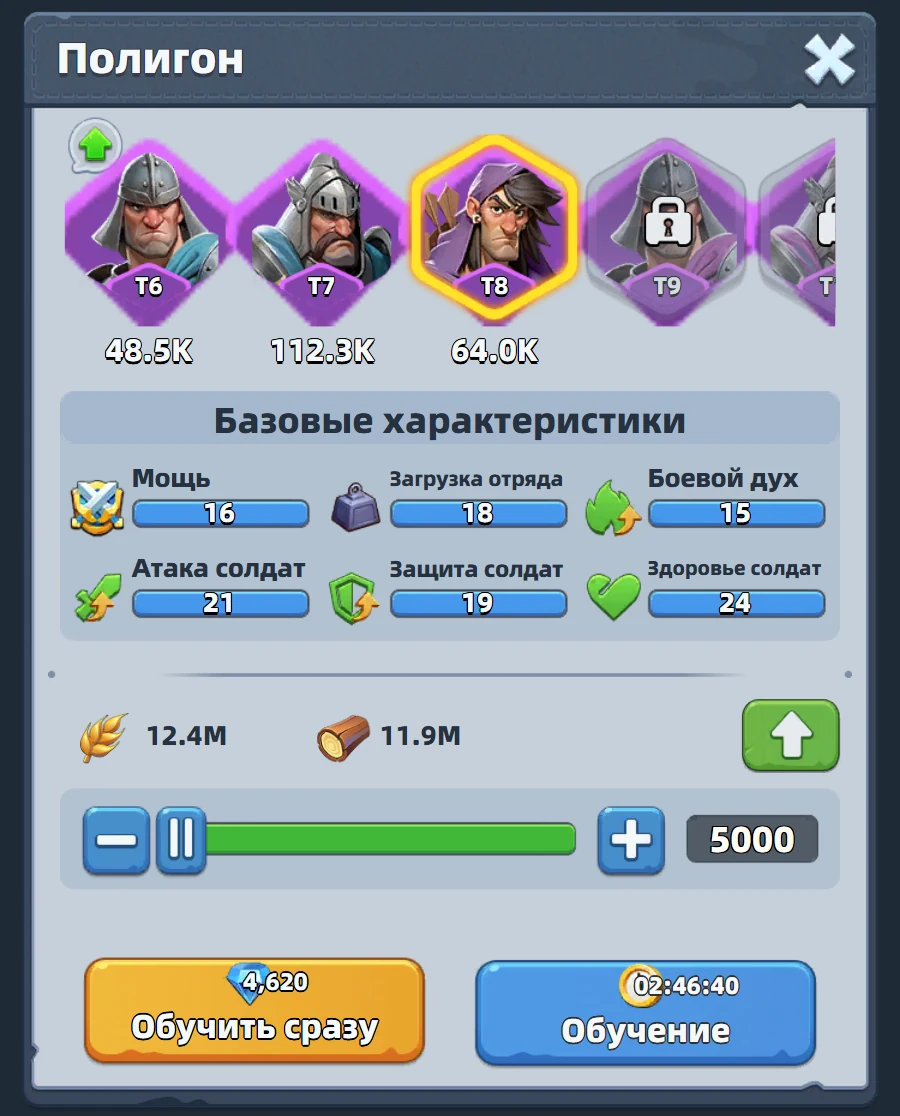
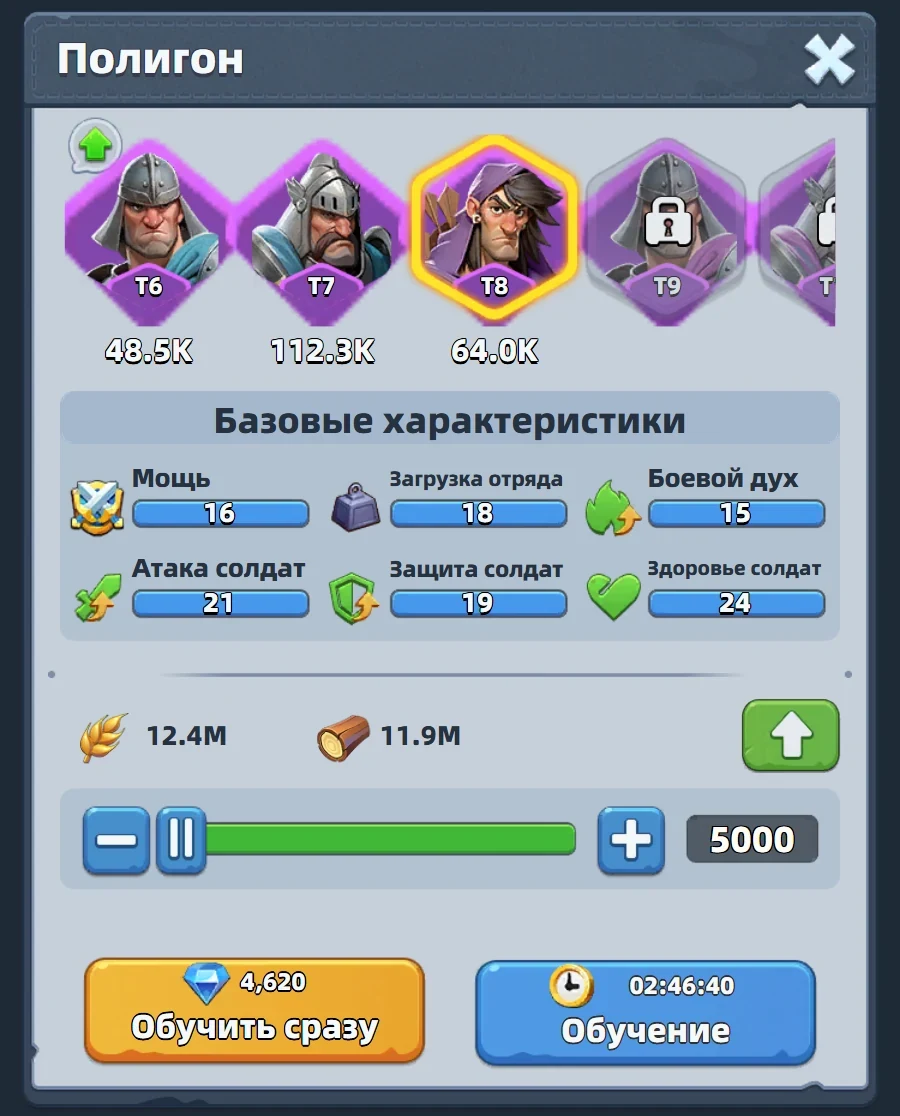
Фишки: Полигон — цифры на кнопках не наезжают на значки, рамка T8 не закрывает число, снимки вровень с заголовками

Changed region(s): [[0.5911, 0.853, 0.84, 0.914], [0.1867, 0.853, 0.3422, 0.914]]

diff --git a/tips.html b/tips.html
@@ -13,7 +13,7 @@
 <link rel="preconnect" href="https://fonts.googleapis.com">
 <link rel="preconnect" href="https://fonts.gstatic.com" crossorigin>
 <link href="https://fonts.googleapis.com/css2?family=Onest:wght@400;500;600;700;800&family=Unbounded:wght@600;700;800&family=PT+Serif:wght@700&display=swap&subset=cyrillic" rel="stylesheet">
-<link rel="stylesheet" href="assets/style.css?v=1b68696192">
+<link rel="stylesheet" href="assets/style.css?v=fbf99bc5ee">
 </head>
 <body>
 <header class="site-head"><div class="wrap hdr">
@@ -216,7 +216,7 @@
     </div>
     <div>
       <h3>Солдаты</h3>
-      <figure class="shot-in"><div class="shot"><img src="assets/shots/barrack.webp" alt="Окно «Полигон»: солдаты T6–T10, характеристики, кнопка «Обучение»" loading="lazy"><span class="ring rect" style="left:54.8%;top:22.4%;width:20%;aspect-ratio:.92"></span><span class="ring rect" style="left:87.8%;top:65.9%;width:12%;aspect-ratio:1.1"></span><span class="ring rect" style="left:71.7%;top:90.7%;width:38.1%;aspect-ratio:3.11"></span></div><p class="cap">Окно «Полигон»: сверху солдаты по уровням (T6, T7…; с замком — ещё не открыты), под ними характеристики выбранного. Зелёная стрелка — <b>повысить</b> уже обученных до следующего уровня, синяя кнопка — «Обучение» новых.</p></figure>
+      <figure class="shot-in"><div class="shot"><img src="assets/shots/barrack.webp" alt="Окно «Полигон»: солдаты T6–T10, характеристики, кнопка «Обучение»" loading="lazy"><span class="ring rect" style="left:54.8%;top:23.5%;width:20%;aspect-ratio:0.82"></span><span class="ring rect" style="left:87.8%;top:65.9%;width:12%;aspect-ratio:1.1"></span><span class="ring rect" style="left:71.7%;top:90.9%;width:39%;aspect-ratio:3.1"></span></div><p class="cap">Окно «Полигон»: сверху солдаты по уровням (T6, T7…; с замком — ещё не открыты), под ними характеристики выбранного. Зелёная стрелка — <b>повысить</b> уже обученных до следующего уровня, синяя кнопка — «Обучение» новых.</p></figure>
       <div class="nsteps">
         <div class="step noimg"><div class="no">1</div><div><b>Один Полигон — на максимум, три — до 10 уровня</b><p>Три дешёвых Полигона быстро учат солдат среднего уровня (T4), а потом их повышаешь до лучших. Так экономится 6–7 часов за круг.</p></div></div>
         <div class="step noimg"><div class="no">2</div><div><b>Повышай, а не учи с нуля</b><p>Старых слабых солдат переводи в сильных — дешевле и быстрее.</p></div></div>
@@ -303,6 +303,6 @@
   <p>Разница между временем сервера и московским — 5 часов, на сервере время меньше: когда в Москве 17:00, на сервере 12:00. Новый игровой день начинается в 05:00 по Москве. Если что-то в игре поменялось — верь игре и напиши лидеру, поправим.</p>
 </footer>
 <button class="totop" id="toTop" aria-label="Наверх">↑</button>
-<script src="assets/app.js?v=1b68696192"></script>
+<script src="assets/app.js?v=fbf99bc5ee"></script>
 </body>
 </html>

diff --git a/src/tips.html b/src/tips.html
@@ -181,7 +181,7 @@
     </div>
     <div>
       <h3>Солдаты</h3>
-      <figure class="shot-in"><div class="shot"><img src="assets/shots/barrack.webp" alt="Окно «Полигон»: солдаты T6–T10, характеристики, кнопка «Обучение»" loading="lazy"><span class="ring rect" style="left:54.8%;top:22.4%;width:20%;aspect-ratio:.92"></span><span class="ring rect" style="left:87.8%;top:65.9%;width:12%;aspect-ratio:1.1"></span><span class="ring rect" style="left:71.7%;top:90.7%;width:38.1%;aspect-ratio:3.11"></span></div><p class="cap">Окно «Полигон»: сверху солдаты по уровням (T6, T7…; с замком — ещё не открыты), под ними характеристики выбранного. Зелёная стрелка — <b>повысить</b> уже обученных до следующего уровня, синяя кнопка — «Обучение» новых.</p></figure>
+      <figure class="shot-in"><div class="shot"><img src="assets/shots/barrack.webp" alt="Окно «Полигон»: солдаты T6–T10, характеристики, кнопка «Обучение»" loading="lazy"><span class="ring rect" style="left:54.8%;top:23.5%;width:20%;aspect-ratio:0.82"></span><span class="ring rect" style="left:87.8%;top:65.9%;width:12%;aspect-ratio:1.1"></span><span class="ring rect" style="left:71.7%;top:90.9%;width:39%;aspect-ratio:3.1"></span></div><p class="cap">Окно «Полигон»: сверху солдаты по уровням (T6, T7…; с замком — ещё не открыты), под ними характеристики выбранного. Зелёная стрелка — <b>повысить</b> уже обученных до следующего уровня, синяя кнопка — «Обучение» новых.</p></figure>
       <div class="nsteps">
         <div class="step noimg"><div class="no">1</div><div><b>Один Полигон — на максимум, три — до 10 уровня</b><p>Три дешёвых Полигона быстро учат солдат среднего уровня (T4), а потом их повышаешь до лучших. Так экономится 6–7 часов за круг.</p></div></div>
         <div class="step noimg"><div class="no">2</div><div><b>Повышай, а не учи с нуля</b><p>Старых слабых солдат переводи в сильных — дешевле и быстрее.</p></div></div>

diff --git a/duel.html b/duel.html
@@ -13,7 +13,7 @@
 <link rel="preconnect" href="https://fonts.googleapis.com">
 <link rel="preconnect" href="https://fonts.gstatic.com" crossorigin>
 <link href="https://fonts.googleapis.com/css2?family=Onest:wght@400;500;600;700;800&family=Unbounded:wght@600;700;800&family=PT+Serif:wght@700&display=swap&subset=cyrillic" rel="stylesheet">
-<link rel="stylesheet" href="assets/style.css?v=1b68696192">
+<link rel="stylesheet" href="assets/style.css?v=fbf99bc5ee">
 </head>
 <body>
 <header class="site-head"><div class="wrap hdr">
@@ -269,6 +269,6 @@
   <p>Разница между временем сервера и московским — 5 часов, на сервере время меньше: когда в Москве 17:00, на сервере 12:00. Новый игровой день начинается в 05:00 по Москве. Если что-то в игре поменялось — верь игре и напиши лидеру, поправим.</p>
 </footer>
 <button class="totop" id="toTop" aria-label="Наверх">↑</button>
-<script src="assets/app.js?v=1b68696192"></script>
+<script src="assets/app.js?v=fbf99bc5ee"></script>
 </body>
 </html>

diff --git a/events.html b/events.html
@@ -13,7 +13,7 @@
 <link rel="preconnect" href="https://fonts.googleapis.com">
 <link rel="preconnect" href="https://fonts.gstatic.com" crossorigin>
 <link href="https://fonts.googleapis.com/css2?family=Onest:wght@400;500;600;700;800&family=Unbounded:wght@600;700;800&family=PT+Serif:wght@700&display=swap&subset=cyrillic" rel="stylesheet">
-<link rel="stylesheet" href="assets/style.css?v=b0a7955dfc">
+<link rel="stylesheet" href="assets/style.css?v=fbf99bc5ee">
 </head>
 <body>
 <header class="site-head"><div class="wrap hdr">
@@ -612,6 +612,6 @@
   <p>Разница между временем сервера и московским — 5 часов, на сервере время меньше: когда в Москве 17:00, на сервере 12:00. Новый игровой день начинается в 05:00 по Москве. Если что-то в игре поменялось — верь игре и напиши лидеру, поправим.</p>
 </footer>
 <button class="totop" id="toTop" aria-label="Наверх">↑</button>
-<script src="assets/app.js?v=b0a7955dfc"></script>
+<script src="assets/app.js?v=fbf99bc5ee"></script>
 </body>
 </html>

diff --git a/gear.html b/gear.html
@@ -13,7 +13,7 @@
 <link rel="preconnect" href="https://fonts.googleapis.com">
 <link rel="preconnect" href="https://fonts.gstatic.com" crossorigin>
 <link href="https://fonts.googleapis.com/css2?family=Onest:wght@400;500;600;700;800&family=Unbounded:wght@600;700;800&family=PT+Serif:wght@700&display=swap&subset=cyrillic" rel="stylesheet">
-<link rel="stylesheet" href="assets/style.css?v=1b68696192">
+<link rel="stylesheet" href="assets/style.css?v=fbf99bc5ee">
 </head>
 <body>
 <header class="site-head"><div class="wrap hdr">
@@ -186,6 +186,6 @@
   <p>Разница между временем сервера и московским — 5 часов, на сервере время меньше: когда в Москве 17:00, на сервере 12:00. Новый игровой день начинается в 05:00 по Москве. Если что-то в игре поменялось — верь игре и напиши лидеру, поправим.</p>
 </footer>
 <button class="totop" id="toTop" aria-label="Наверх">↑</button>
-<script src="assets/app.js?v=1b68696192"></script>
+<script src="assets/app.js?v=fbf99bc5ee"></script>
 </body>
 </html>

diff --git a/glossary.html b/glossary.html
@@ -13,7 +13,7 @@
 <link rel="preconnect" href="https://fonts.googleapis.com">
 <link rel="preconnect" href="https://fonts.gstatic.com" crossorigin>
 <link href="https://fonts.googleapis.com/css2?family=Onest:wght@400;500;600;700;800&family=Unbounded:wght@600;700;800&family=PT+Serif:wght@700&display=swap&subset=cyrillic" rel="stylesheet">
-<link rel="stylesheet" href="assets/style.css?v=1b68696192">
+<link rel="stylesheet" href="assets/style.css?v=fbf99bc5ee">
 </head>
 <body>
 <header class="site-head"><div class="wrap hdr">
@@ -154,6 +154,6 @@
   <p>Разница между временем сервера и московским — 5 часов, на сервере время меньше: когда в Москве 17:00, на сервере 12:00. Новый игровой день начинается в 05:00 по Москве. Если что-то в игре поменялось — верь игре и напиши лидеру, поправим.</p>
 </footer>
 <button class="totop" id="toTop" aria-label="Наверх">↑</button>
-<script src="assets/app.js?v=1b68696192"></script>
+<script src="assets/app.js?v=fbf99bc5ee"></script>
 </body>
 </html>

diff --git a/heroes.html b/heroes.html
@@ -13,7 +13,7 @@
 <link rel="preconnect" href="https://fonts.googleapis.com">
 <link rel="preconnect" href="https://fonts.gstatic.com" crossorigin>
 <link href="https://fonts.googleapis.com/css2?family=Onest:wght@400;500;600;700;800&family=Unbounded:wght@600;700;800&family=PT+Serif:wght@700&display=swap&subset=cyrillic" rel="stylesheet">
-<link rel="stylesheet" href="assets/style.css?v=1b68696192">
+<link rel="stylesheet" href="assets/style.css?v=fbf99bc5ee">
 </head>
 <body>
 <header class="site-head"><div class="wrap hdr">
@@ -273,6 +273,6 @@
   <p>Разница между временем сервера и московским — 5 часов, на сервере время меньше: когда в Москве 17:00, на сервере 12:00. Новый игровой день начинается в 05:00 по Москве. Если что-то в игре поменялось — верь игре и напиши лидеру, поправим.</p>
 </footer>
 <button class="totop" id="toTop" aria-label="Наверх">↑</button>
-<script src="assets/app.js?v=1b68696192"></script>
+<script src="assets/app.js?v=fbf99bc5ee"></script>
 </body>
 </html>

diff --git a/index.html b/index.html
@@ -13,7 +13,7 @@
 <link rel="preconnect" href="https://fonts.googleapis.com">
 <link rel="preconnect" href="https://fonts.gstatic.com" crossorigin>
 <link href="https://fonts.googleapis.com/css2?family=Onest:wght@400;500;600;700;800&family=Unbounded:wght@600;700;800&family=PT+Serif:wght@700&display=swap&subset=cyrillic" rel="stylesheet">
-<link rel="stylesheet" href="assets/style.css?v=1b68696192">
+<link rel="stylesheet" href="assets/style.css?v=fbf99bc5ee">
 </head>
 <body>
 <header class="site-head"><div class="wrap hdr">
@@ -127,6 +127,6 @@
   <p>Разница между временем сервера и московским — 5 часов, на сервере время меньше: когда в Москве 17:00, на сервере 12:00. Новый игровой день начинается в 05:00 по Москве. Если что-то в игре поменялось — верь игре и напиши лидеру, поправим.</p>
 </footer>
 <button class="totop" id="toTop" aria-label="Наверх">↑</button>
-<script src="assets/app.js?v=1b68696192"></script>
+<script src="assets/app.js?v=fbf99bc5ee"></script>
 </body>
 </html>

diff --git a/kvk.html b/kvk.html
@@ -13,7 +13,7 @@
 <link rel="preconnect" href="https://fonts.googleapis.com">
 <link rel="preconnect" href="https://fonts.gstatic.com" crossorigin>
 <link href="https://fonts.googleapis.com/css2?family=Onest:wght@400;500;600;700;800&family=Unbounded:wght@600;700;800&family=PT+Serif:wght@700&display=swap&subset=cyrillic" rel="stylesheet">
-<link rel="stylesheet" href="assets/style.css?v=1b68696192">
+<link rel="stylesheet" href="assets/style.css?v=fbf99bc5ee">
 </head>
 <body>
 <header class="site-head"><div class="wrap hdr">
@@ -523,6 +523,6 @@
   <p>Разница между временем сервера и московским — 5 часов, на сервере время меньше: когда в Москве 17:00, на сервере 12:00. Новый игровой день начинается в 05:00 по Москве. Если что-то в игре поменялось — верь игре и напиши лидеру, поправим.</p>
 </footer>
 <button class="totop" id="toTop" aria-label="Наверх">↑</button>
-<script src="assets/app.js?v=1b68696192"></script>
+<script src="assets/app.js?v=fbf99bc5ee"></script>
 </body>
 </html>

diff --git a/raven.html b/raven.html
@@ -13,7 +13,7 @@
 <link rel="preconnect" href="https://fonts.googleapis.com">
 <link rel="preconnect" href="https://fonts.gstatic.com" crossorigin>
 <link href="https://fonts.googleapis.com/css2?family=Onest:wght@400;500;600;700;800&family=Unbounded:wght@600;700;800&family=PT+Serif:wght@700&display=swap&subset=cyrillic" rel="stylesheet">
-<link rel="stylesheet" href="assets/style.css?v=1b68696192">
+<link rel="stylesheet" href="assets/style.css?v=fbf99bc5ee">
 </head>
 <body>
 <header class="site-head"><div class="wrap hdr">
@@ -175,6 +175,6 @@
   <p>Разница между временем сервера и московским — 5 часов, на сервере время меньше: когда в Москве 17:00, на сервере 12:00. Новый игровой день начинается в 05:00 по Москве. Если что-то в игре поменялось — верь игре и напиши лидеру, поправим.</p>
 </footer>
 <button class="totop" id="toTop" aria-label="Наверх">↑</button>
-<script src="assets/app.js?v=1b68696192"></script>
+<script src="assets/app.js?v=fbf99bc5ee"></script>
 </body>
 </html>

diff --git a/rules.html b/rules.html
@@ -13,7 +13,7 @@
 <link rel="preconnect" href="https://fonts.googleapis.com">
 <link rel="preconnect" href="https://fonts.gstatic.com" crossorigin>
 <link href="https://fonts.googleapis.com/css2?family=Onest:wght@400;500;600;700;800&family=Unbounded:wght@600;700;800&family=PT+Serif:wght@700&display=swap&subset=cyrillic" rel="stylesheet">
-<link rel="stylesheet" href="assets/style.css?v=1b68696192">
+<link rel="stylesheet" href="assets/style.css?v=fbf99bc5ee">
 </head>
 <body>
 <header class="site-head"><div class="wrap hdr">
@@ -189,6 +189,6 @@
   <p>Разница между временем сервера и московским — 5 часов, на сервере время меньше: когда в Москве 17:00, на сервере 12:00. Новый игровой день начинается в 05:00 по Москве. Если что-то в игре поменялось — верь игре и напиши лидеру, поправим.</p>
 </footer>
 <button class="totop" id="toTop" aria-label="Наверх">↑</button>
-<script src="assets/app.js?v=1b68696192"></script>
+<script src="assets/app.js?v=fbf99bc5ee"></script>
 </body>
 </html>

diff --git a/squads.html b/squads.html
@@ -13,7 +13,7 @@
 <link rel="preconnect" href="https://fonts.googleapis.com">
 <link rel="preconnect" href="https://fonts.gstatic.com" crossorigin>
 <link href="https://fonts.googleapis.com/css2?family=Onest:wght@400;500;600;700;800&family=Unbounded:wght@600;700;800&family=PT+Serif:wght@700&display=swap&subset=cyrillic" rel="stylesheet">
-<link rel="stylesheet" href="assets/style.css?v=1b68696192">
+<link rel="stylesheet" href="assets/style.css?v=fbf99bc5ee">
 </head>
 <body>
 <header class="site-head"><div class="wrap hdr">
@@ -227,6 +227,6 @@
   <p>Разница между временем сервера и московским — 5 часов, на сервере время меньше: когда в Москве 17:00, на сервере 12:00. Новый игровой день начинается в 05:00 по Москве. Если что-то в игре поменялось — верь игре и напиши лидеру, поправим.</p>
 </footer>
 <button class="totop" id="toTop" aria-label="Наверх">↑</button>
-<script src="assets/app.js?v=1b68696192"></script>
+<script src="assets/app.js?v=fbf99bc5ee"></script>
 </body>
 </html>
